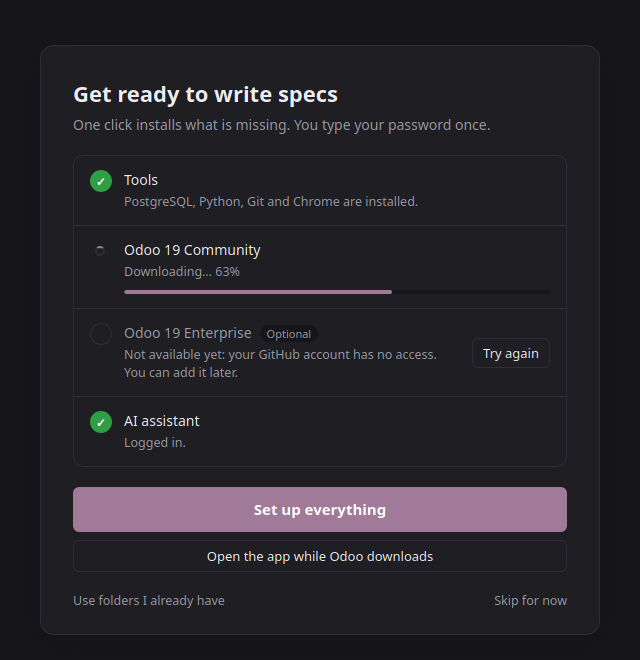
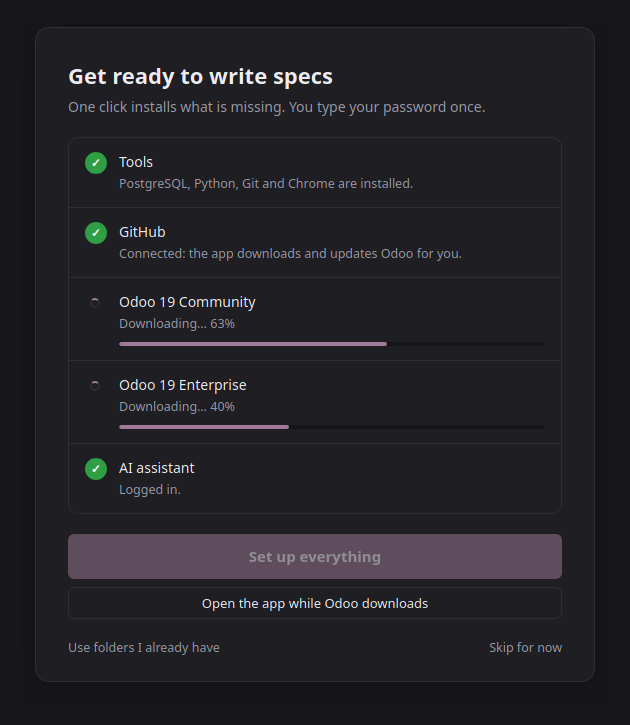
Bring the README up to date
The GitHub step of the setup and its new screenshot, hosting and version per
session, the Odoo way first, Odoo versions in Settings, the usage line, and
the new folder layout.

diff --git a/README.md b/README.md
@@ -17,6 +17,15 @@ databases on your own computer, filled with Odoo's demo data.
 
 - **Chat to a spec**: describe the feature in your own words; the assistant
   asks what is unclear, then draws the spec on the right while you watch.
+- **The Odoo way first**: the assistant reads the Odoo source and looks for
+  a setting, an access right, a standard module or report before proposing
+  development. When something can't be done as asked on the client's
+  hosting, it explains why in plain words and suggests the workaround before
+  drawing.
+- **Odoo Online or Odoo.sh, and the version**: each spec knows where the
+  client's Odoo runs and its version (e.g. *Odoo Online · 19.2*). The
+  assistant works only from that version's code, and the screenshots come
+  from it.
 - **Real Odoo screens**: screenshots of the exact form, list, button or PDF,
   with new fields shown where they will appear and red notes pointing at
   them.
@@ -34,9 +43,14 @@ databases on your own computer, filled with Odoo's demo data.
 - **Edit by hand**: the diagram is a normal Excalidraw canvas. Change
   anything, open it in its own window, export a PNG or the `.excalidraw`
   file.
-- **One-click setup**: the app installs what it needs and downloads Odoo by
-  itself.
+- **One-click setup**: the app installs what it needs, connects to GitHub
+  for you, and downloads Odoo by itself.
+- **Odoo versions handled for you**: each version is downloaded when a spec
+  needs it and kept up to date every week. Already have Odoo (e.g. with
+  odev)? Use your own folders instead.
 - **Updates from inside the app**: a new version is one click away.
+- **Usage at a glance**: for Claude, your 5-hour and weekly limits under the
+  message box.
 
 <p align="center">
   <img src="docs/screenshots/databases.png" width="760" alt="The Databases page">
@@ -48,6 +62,8 @@ databases on your own computer, filled with Odoo's demo data.
 
 - Ubuntu 22.04 or 24.04, 64-bit, with admin rights (you type your password
   once during the setup).
+- A GitHub account (Odoo's code comes from GitHub). For Odoo Enterprise, the
+  account needs access to it.
 - An AI assistant installed on your computer: [Claude
   Code](https://code.claude.com/docs) or Antigravity.
 - About 2 GB of free space for each Odoo version.
@@ -74,13 +90,15 @@ Click **Set up everything**:
 1. **Tools**: Ubuntu asks for your password once. The app installs and
    starts what is missing (PostgreSQL, Python, Git, GitHub's tool, Chrome)
    and creates your database user.
-2. **Odoo 19 Community** downloads in the background (about 1.5 GB, a few
-   minutes), then the app prepares it.
-3. **Odoo 19 Enterprise** is optional. Click **Sign in to GitHub**: a
-   window shows a short code to enter in your browser. If your GitHub
+2. **GitHub**: a window shows a short code to enter in your browser. That's
+   all: the app makes its own SSH key and adds it to your GitHub account
+   (your own SSH keys and settings are never touched).
+3. **Odoo 19 Community** then downloads in the background (about 1.5 GB, a
+   few minutes), and the app prepares it.
+4. **Odoo 19 Enterprise** is optional and downloads with it. If your GitHub
    account has no access to Odoo Enterprise yet, it says so; Community works
    without it, and you can click **Try again** once you have access.
-4. **AI assistant**: click **Log in** if you are not logged in yet. A window
+5. **AI assistant**: click **Log in** if you are not logged in yet. A window
    opens for it.
 
 You can start working while Odoo still downloads; a small ring in the
@@ -93,18 +111,27 @@ Open the setup again any time from **Settings → General → Open setup**.
 
 1. **New project** in the sidebar for your client, then **+** for a new
    session (one per feature).
-2. Describe the feature in the chat, for example: *"Client is on Odoo
-   Online. On quotations, add a Delivery deadline date next to the
-   Expiration date, and show it as a column in the quotations list."*
-3. The assistant asks what is unclear, then draws the spec. Edit it on the
-   canvas, or ask the assistant to change it.
+2. Choose where the client's Odoo runs under the message box: **Odoo
+   Online** (the latest version is picked for you) or **Odoo.sh** and its
+   version. New sessions of the same client start with the same choice.
+3. Describe the feature in the chat, for example: *"On quotations, add a
+   Delivery deadline date next to the Expiration date, and show it as a
+   column in the quotations list."*
+4. The assistant asks what is unclear. If part of it can't be done that way
+   on the client's hosting, it tells you why and suggests the Odoo way;
+   otherwise it draws the spec straight away. Edit it on the canvas, or ask
+   the assistant to change it.
 
 Under the message box:
 
 | Chip | What it does |
 |---|---|
 | **Model** | Pick the AI service, then the model, and for Claude the effort (Low to Max). A session keeps the AI service of its first message. |
-| **Database** | The Odoo database this session's screenshots use: **Automatic**, one of yours, or **New database…**. **Open** opens it in your browser (user `admin`, password `admin`). |
+| **Hosting** | Where the client's Odoo runs and its version: *Odoo Online · 19.2* or *Odoo.sh · 19.0*. |
+| **Database** | The Odoo database this session's screenshots use, of the session's version: **Automatic** (an existing one, or a new `db-19-1` if there is none), one of yours, or **New database…**. **Open** opens it in your browser (user `admin`, password `admin`). |
+
+Under it, with Claude, your 5-hour and weekly limits; click them for when
+they reset. (Antigravity doesn't publish its usage, so nothing shows there.)
 
 The **Databases** page lists every local database with its version, apps,
 edition, size and how many sessions use it. **New database** suggests a name
@@ -116,6 +143,7 @@ Reset to fresh and Delete.
 | Page | What you can change |
 |---|---|
 | **General** | The Odoo version and demo data for new databases, the diagram's theme (Light, Dark or System), and **Open setup**. |
+| **Odoo versions** | The versions on your computer with their size and last update: **Update now**, **Remove**, **Use a folder…** (e.g. your odev worktree), and add another version. |
 | **AI services** | Which AI services are connected, and **Log in** for the others. |
 
 ## Updates
@@ -136,8 +164,9 @@ page first if you want them gone).
 - **What the AI sees**: your messages, the Odoo source code, and the
   screenshots of your local Odoo. It goes through your own Claude Code or
   Antigravity, as if you used them yourself.
-- **What goes online besides the AI**: the Odoo source download (GitHub),
-  Chrome's download (Google), and the update check (GitHub, at each start).
+- **What goes online besides the AI**: the Odoo source (GitHub, over SSH
+  with the app's own key; downloads and a weekly update), Chrome's download
+  (Google), and the app's update check (GitHub, at each start).
 - Your specs are plain files in `~/OdooSpecs/<Project>/<session>/`:
   `spec.excalidraw`, the screenshots, and the chat.
 
@@ -182,10 +211,18 @@ the last release, and they're what the app shows as "What's new".
 
 Odoo runs straight from its source with `odoo-bin`, one server per database,
 on a free port; servers stop when the app closes. Everything lives in
-`~/.local/share/odoo-dev-specs/runtime/` (`sources/<version>/odoo` and
-`enterprise`, `venvs/<version>`, `data/` for filestores, `state/` for the
-running servers and the database list). The app only lists or deletes
-PostgreSQL databases whose name starts with `specs_`.
+`~/.local/share/odoo-dev-specs/runtime/`:
+
+| Folder | What |
+|---|---|
+| `sources/repos/odoo`, `sources/repos/enterprise` | One shared Git repository per edition, like odev's, but holding only the latest commit of each version used (no history: a few hundred MB instead of 17 GB) |
+| `sources/<version>/odoo`, `…/enterprise` | A worktree per version (`19.0`, `saas-19.2`…), or a link to a folder you chose |
+| `venvs/<version>` | The version's Python environment |
+| `ssh/` | The app's own SSH key, used only by the app's Git commands (your `~/.ssh` and its config are ignored) |
+| `data/`, `state/` | Filestores; the running servers and the database list |
+
+The app only lists or deletes PostgreSQL databases whose name starts with
+`specs_`.
 
 The assistant runs with read-only tools (read and search the Odoo source),
 without your personal Claude settings or hooks, plus the diagram and
